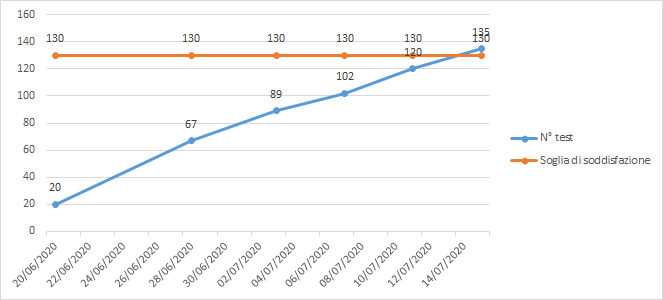
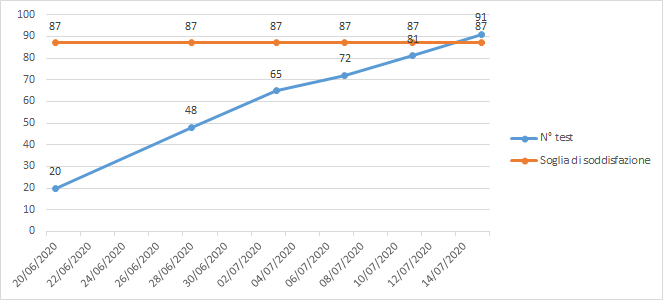
docs: modifica sezione 4

diff --git a/esterni/piano-di-qualifica/components/4-specifiche-dei-test.tex b/esterni/piano-di-qualifica/components/4-specifiche-dei-test.tex
@@ -94,50 +94,50 @@ Garantiscono che i requisiti richiesti identificati nel documento \textsc{Analis
   \multicolumn{4}{c}{\textit{Continua alla pagina successiva}}
   \endfoot%
   \endlastfoot%
-  \textbf{TSRFO1} & Si verifica che l'utente possa addestrare il sistema inserendo i dati tramite degli appositi pulsanti. & Obbligatorio & Non Implementato \\
+  \textbf{TSRFO1} & Si verifica che l'utente possa addestrare il sistema inserendo i dati tramite degli appositi pulsanti. & Obbligatorio & Implementato \\
 
-  \textbf{TSRFD1.1.1} & Si verifica che si venga notificati con un messaggio d’errore nel caso si carichino i dati di addestramento in un formato non valido. & Desiderabile & Non Implementato \\
+  \textbf{TSRFD1.1.1} & Si verifica che si venga notificati con un messaggio d’errore nel caso si carichino i dati di addestramento in un formato non valido. & Desiderabile & Implementato \\
 
-  \textbf{TSRFD1.2.1} & Si verifica che l’utente venga notificato con un messaggio d’errore nel caso si carichi un predittore in un formato non valido. & Desiderabile & Non Implementato \\
+  \textbf{TSRFD1.2.1} & Si verifica che l’utente venga notificato con un messaggio d’errore nel caso si carichi un predittore in un formato non valido. & Desiderabile & Implementato \\
   
-  \textbf{TSRFO1.3} & Si verifica che l'utente possa scegliere il modello di machine learning per l'addestramento. & Obbligatorio & Non Implementato \\
+  \textbf{TSRFO1.3} & Si verifica che l'utente possa scegliere il modello di machine learning per l'addestramento. & Obbligatorio & Implementato \\
 
-  \textbf{TSRFO1.4} & Si che verifica che l'utente possa avviare l'addestramento & Obbligatorio & Non Implementato \\
-  \textbf{TSRFO1.5} & Si verifica che l'utente abbia a disposizione un pulsante per il caricamento di un file \glossario{JSON} contenente il \glossario{predittore} allenato in precedenza. & Obbligatorio & Non Implementato \\
+  \textbf{TSRFO1.4} & Si che verifica che l'utente possa avviare l'addestramento & Obbligatorio & Implementato \\
+  \textbf{TSRFO1.5} & Si verifica che l'utente abbia a disposizione un pulsante per il caricamento di un file \glossario{JSON} contenente il \glossario{predittore} allenato in precedenza. & Obbligatorio & Implementato \\
   
   \textbf{TSRFF2} & Si verifica che l'utente possa addestrare il sistema direttamente da Grafana & Facoltativo & Non Implementato \\
   
   \textbf{TSRFF3} & Si verifica che l'utente possa avviare l'apprendimento del flusso di dati costante per mezzo di un pannello. & Facoltativo & Non Implementato \\
   \textbf{TSRFF4} & Si verifica che l'utente possa disattivare l'apprendimento del flusso di dati costante per mezzo di un pannello. & Facoltativo & Non Implementato \\
-  \textbf{TSRFO5} & Si verifica che l'utente possa configurare il plug-in. & Obbligatorio & Non Implementato \\
-  \textbf{TSRFO5.1} & Si verifica che l'utente abbia a disposizione un metodo per caricare il modello addestrato. & Obbligatorio & Non Implementato \\
+  \textbf{TSRFO5} & Si verifica che l'utente possa configurare il plug-in. & Obbligatorio & Implementato \\
+  \textbf{TSRFO5.1} & Si verifica che l'utente abbia a disposizione un metodo per caricare il modello addestrato. & Obbligatorio & Implementato \\
   \textbf{TSRFD5.1.1} & Si verifica che l'utente venga notificato con un messaggio d'errore nel caso in cui venga caricato un file contenente il modello addestrato non valido. & Desiderabile & Non Implementato \\
-  \textbf{TSRFD5.1.2} & Si verifica che l'utente venga notificato con un messaggio d'errore nel caso in cui non venga caricato nessun file. & Desiderabile & Non Implementato \\
-  \textbf{TSRFO5.2} & Si verifica che l'utente possa selezionare i nodi su cui desidera effettuare la predizione. & Obbligatorio & Non Implementato \\
-  \textbf{TSRFD5.2.1} & Si verifica che l'utente venga notificato con un messaggio d'errore nel caso in cui venga selezionato un nodo non valido. & Desiderabile & Non Implementato \\
-  \textbf{TSRFD5.2.2} & Si verifica che l'utente venga notificato con un messaggio d'errore nel caso in cui non venga selezionato alcun nodo. & Desiderabile & Non Implementato \\
-  \textbf{TSRFO5.3} & Si verifica che l'utente possa selezionare il tipo di visualizzazione della predizione. & Obbligatorio & Non Implementato \\
+  \textbf{TSRFD5.1.2} & Si verifica che l'utente venga notificato con un messaggio d'errore nel caso in cui non venga caricato nessun file. & Desiderabile & Implementato \\
+  \textbf{TSRFO5.2} & Si verifica che l'utente possa selezionare i nodi su cui desidera effettuare la predizione. & Obbligatorio & Implementato \\
+  \textbf{TSRFD5.2.1} & Si verifica che l'utente venga notificato con un messaggio d'errore nel caso in cui venga selezionato un nodo non valido. & Desiderabile & Implementato \\
+  \textbf{TSRFD5.2.2} & Si verifica che l'utente venga notificato con un messaggio d'errore nel caso in cui non venga selezionato alcun nodo. & Desiderabile & Implementato \\
+  \textbf{TSRFO5.3} & Si verifica che l'utente possa selezionare il tipo di visualizzazione della predizione. & Obbligatorio & Implementato \\
   \textbf{TSRFD5.3.1} & Si verifica che l'utente venga notificato con un messaggio d'errore nel caso in cui non venga selezionato alcun tipo di visualizzazione. & Desiderabile & Non Implementato \\
-  \textbf{TSRFO6} & Si verifica che l'utente abbia a disposizione la possibilità di visualizzare la previsione utilizzando un grafico. & Obbligatorio & Non Implementato \\
-  \textbf{TSRFO7} & Si verifica che l'utente abbia a disposizione la possibilità di visualizzare la previsione utilizzando un indicatore. & Obbligatorio & Non Implementato \\
-  \textbf{TSRFO8} & Si verifica che l'utente possa selezionare il modello SVM per l'allenamento. & Obbligatorio & Non Implementato \\
-  \textbf{TSRFO9} & Si verifica che l'utente possa selezionare il modello RL per l'allenamento. & Obbligatorio & Non Implementato \\
+  \textbf{TSRFO6} & Si verifica che l'utente abbia a disposizione la possibilità di visualizzare la previsione utilizzando un grafico. & Obbligatorio & Implementato \\
+  \textbf{TSRFO7} & Si verifica che l'utente abbia a disposizione la possibilità di visualizzare la previsione utilizzando un indicatore. & Obbligatorio & Implementato \\
+  \textbf{TSRFO8} & Si verifica che l'utente possa selezionare il modello SVM per l'allenamento. & Obbligatorio & Implementato \\
+  \textbf{TSRFO9} & Si verifica che l'utente possa selezionare il modello RL per l'allenamento. & Obbligatorio & Implementato \\
   \textbf{TSRFF10} & Si verifica che l'utente possa selezionare la regressione esponenziale per l'allenamento. & Facoltativo & Non Implementato \\
   \textbf{TSRFF11} & Si verifica che l'utente possa selezionare la regressione logaritmica per l'allenamento. & Facoltativo & Non Implementato \\
   \textbf{TSRFF12} & Si verifica che l'utente possa selezionare il modello rete neurale per l'allenamento. & Facoltativo & Non Implementato \\
   \textbf{TSRFF13} & Si verifica che l'utente possa selezionare il modello SVM adattata alla regressione per l'allenamento. & Facoltativo & Non Implementato \\
-  \textbf{TSRFO14} & Si verifica che l'utente abbia a disposizione un pulsante per l’avvio della predizione. & Obbligatorio & Non Implementato \\
-  \textbf{TSRFO15} & Si verifica che l'utente abbia a disposizione un pulsante per interrompere la predizione. & Obbligatorio & Non Implementato \\
+  \textbf{TSRFO14} & Si verifica che l'utente abbia a disposizione un pulsante per l’avvio della predizione. & Obbligatorio & Implementato \\
+  \textbf{TSRFO15} & Si verifica che l'utente abbia a disposizione un pulsante per interrompere la predizione. & Obbligatorio & Implementato \\
   \textbf{TSRFF16} & Si verifica che all'utente venga mostrato il pannello contenente le informazioni riguardanti la bontà della previsione. & Facoltativo & Non Implementato \\
   \textbf{TSRFF17} & Si verifica che all'utente venga mostrato il pannello contenente la bontà di previsione dell'algoritmo SVM descritta dal parametro F-Measure. & Facoltativo & Non Implementato \\
   \textbf{TSRFF18} & Si verifica che all'utente venga mostrato il pannello contenente la bontà di previsione dell'algoritmo RL descritta dal parametro R\textsuperscript{2}. & Facoltativo & Non Implementato \\
   \textbf{TSRFF19} & Si verifica che l'utente abbia a disposizione un metodo per l’impostazione degli alert. & Facoltativo & Non Implementato \\
   \textbf{TSRFF19.1} & Si verifica che all'utente venga mostrato un pulsante che permetta all'utente di creare un alert. & Facoltativo & Non Implementato \\
   \textbf{TSRFF19.2} & Si verifica che l'utente abbia a disposizione un sistema per inserire una soglia di alert. & Facoltativo & Non Implementato \\
-  \textbf{TSRFD19.2.1} & Si verifica che l'utente venga notificato un messaggio di errore nel caso in cui venga superata la soglia impostata utilizzando un allert. & Desiderabile & Non Implementato \\
-  \textbf{TSRFD20} & Si verifica che l'utente possa eliminare il pannello di monitoraggio. & Desiderabile & Non Implementato \\
+  \textbf{TSRFD19.2.1} & Si verifica che l'utente venga notificato un messaggio di errore nel caso in cui venga superata la soglia impostata utilizzando un alert. & Desiderabile & Non Implementato \\
+  \textbf{TSRFD20} & Si verifica che l'utente possa eliminare il pannello di monitoraggio. & Desiderabile & Implementato \\
   \textbf{TSRFD20.1} & Si verifica che l'utente visualizzi un messaggio di errore nel caso in cui si cerchi di eliminare il pannello senza interrompere la previsione. & Desiderabile & Non Implementato \\
-  \textbf{TSRFO21} & Si verifica che l'utente abbia a disposizione un metodo per la visualizzazione delle previsioni. & Obbligatorio & Non Implementato \\
+  \textbf{TSRFO21} & Si verifica che l'utente abbia a disposizione un metodo per la visualizzazione delle previsioni. & Obbligatorio & Implementato \\
 
 \end{longtable}
 
@@ -217,7 +217,7 @@ Garantiscono il corretto funzionamento di ogni minimo componente autonomo del si
   \textbf{TU26} & Viene verificato che la funzione getChartY() della View ritorni i dati dell'asse Y & Implementato \\
   \textbf{TU27} & Viene verificato che la funzione getChartTargetArray() della View ritorni i dati della variabile target presi dal grafico & Implementato \\
   \textbf{TU28} & Viene verificato che la funzione setChartData(x, y, target, xLabel, yLabel, model) della View inserisca correttamente i nuovi dati nel grafico & Implementato \\
-  \textbf{TU29} & Viene verificato che il costruttore dal Controller definisca correttamente i bind con la View & Non Implementato \\
+  \textbf{TU29} & Viene verificato che il costruttore dal Controller definisca correttamente i bind con la View & Implementato \\
   \textbf{TU30} & Viene verificato che la funzione handleFileChanged(path) del Controller venga attivata dopo l'esecuzione della funzione bindFileChange(handler) della View & Non Implementato \\
   \textbf{TU31} & Viene verificato che la funzione handleFormSubmit(keys, meta) del Controller venga attivata dopo l'esecuzione della funzione bindFormSubmit(handler) della View & Non Implementato \\
   \textbf{TU32} & Viene verificato che la funzione handleLoadPredictor(path) del Controller venga attivata dopo l'esecuzione della funzione bindLoadPredictor(handler) della View & Non Implementato \\
@@ -250,5 +250,12 @@ Garantiscono il corretto funzionamento di ogni minimo componente autonomo del si
   \textbf{TU59} & Viene verificato che il metodo del plug-in predict di PredictionRL ritorni i valori corretti & Implementato \\
   \textbf{TU60} & Viene verificato che il metodo del plug-in predict di PredictionSVM ritorni i valori corretti & Implementato \\
 \end{longtable}
+
+\begin{figure}[H]
+  \centering
+  \includegraphics[width=10cm]{img/testImplementati.png}
+  \label{fig:test_implementati}
+  \caption{Grafico con i test implementati}
+\end{figure}
 
 \end{document}

diff --git a/esterni/piano-di-qualifica/components/attivita/attivita-ra.tex b/esterni/piano-di-qualifica/components/attivita/attivita-ra.tex
@@ -161,8 +161,8 @@ A causa delle poche modifiche e cambiamenti significativi non sono stati inserit
 
 \paragraph{Manuale Utente}
 \label{sub:glossario}
-Il \textsc{Manuale Utente v1.9-0.4.0} è stato redatto in questa fase di sviluppo e ha riportato moderati errori errori durante le sua verifiche che sono stati sanati.
-Il suo indice di Gulpease in questa fase di sviluppo è 73.
+Il \textsc{Manuale Utente v3.11-1.0.0} ha ricevuto modifiche e ampliamenti in quasi tutte le sue sezioni ma non così significative da richiedere molte fasi di verifica e approvazione.
+Il suo indice di Gulpease in questa fase di sviluppo è salito a 74.
 
 \rowcolors{2}{white!80!lightgray!90}{white}
 \renewcommand{\arraystretch}{2} % allarga le righe con dello spazio sotto e sopra
@@ -173,29 +173,17 @@ Il suo indice di Gulpease in questa fase di sviluppo è 73.
   \rowcolor{lightgray}
   {\textbf{Documento}} & {\textbf{Risultato indice}} & {\textbf{Errori presenti}} & {\textbf{Esito indice}} & {\textbf{Esito errori}}  \\
   \endhead%
-  \textbf{Manuale Utente v1.9-0.4.0} & 73               & 0               & Soddisfatto & Soddisfatto \\
-  \caption{Risultati metriche per il Manuale Utente v1.9-0.4.0}
+  \textbf{Manuale Utente v3.11-1.0.0} & 74               & 0               & Soddisfatto & Soddisfatto \\
+  \caption{Risultati metriche per il Manuale Utente v3.11-1.0.0}
   \label{tab:my-table}
 \end{longtable}
 
-\begin{figure}[H]
-  \centering
-  \includegraphics[width=10cm]{img/erroriMUv1.9-0.4.0.png}
-  \label{fig:errori_adr}
-  \caption{Grafico errori per \textsc{Manuale Utente v1.9-0.4.0}}
-\end{figure}
-
-\begin{figure}[H]
-  \centering
-  \includegraphics[width=10cm]{img/gulpeaseMUv1.9-0.4.0.png}
-  \label{fig:gulpease_adr}
-  \caption{Grafico indice di Gulpease per \textsc{Manuale Utente v1.9-0.4.0}}
-\end{figure}
+A causa delle poche fasi di verifica richieste non sono stati inseriti i grafici che non comunicavano alcuna informazione aggiuntiva.
 
 \paragraph{Manuale Sviluppatore}
 \label{sub:glossario}
-Il \textsc{Manuale Sviluppatore v1.9-1.0.0}, come per il \textsc{Manuale Utente v1.9-0.4.0}, è stato redatto in questa fase e ha avuto una curva di errori più altalenante che sono stati comunque sanati.
-Il suo indice di Gulpease in questa fase di sviluppo è 71.
+Il \textsc{Manuale Sviluppatore v3.11-2.0.0} ha ricevuto modifiche principalmente ai diagrammi UML sia della training app che del plug-in, oltre ad altre modifiche relative alla parte relativa al plug-in.
+Il suo indice di Gulpease in questa fase di sviluppo è rimasto invariato a 71.
 
 \rowcolors{2}{white!80!lightgray!90}{white}
 \renewcommand{\arraystretch}{2} % allarga le righe con dello spazio sotto e sopra
@@ -206,24 +194,12 @@ Il suo indice di Gulpease in questa fase di sviluppo è 71.
   \rowcolor{lightgray}
   {\textbf{Documento}} & {\textbf{Risultato indice}} & {\textbf{Errori presenti}} & {\textbf{Esito indice}} & {\textbf{Esito errori}}  \\
   \endhead%
-  \textbf{Manuale Sviluppatore v1.9-1.0.0} & 71               & 0               & Soddisfatto & Soddisfatto \\
-  \caption{Risultati metriche per il Manuale Sviluppatore v1.9-1.0.0}
+  \textbf{Manuale Sviluppatore v3.11-2.0.0} & 71               & 0               & Soddisfatto & Soddisfatto \\
+  \caption{Risultati metriche per il Manuale Sviluppatore v3.11-2.0.0}
   \label{tab:my-table}
 \end{longtable}
 
-\begin{figure}[H]
-  \centering
-  \includegraphics[width=10cm]{img/erroriMSv1.9-1.0.0.png}
-  \label{fig:errori_adr}
-  \caption{Grafico errori per \textsc{Manuale Sviluppatore v1.9-1.0.0}}
-\end{figure}
-
-\begin{figure}[H]
-  \centering
-  \includegraphics[width=10cm]{img/gulpeaseMSv1.9-1.0.0.png}
-  \label{fig:gulpease_adr}
-  \caption{Grafico indice di Gulpease per \textsc{Manuale Sviluppatore v1.9-1.0.0}}
-\end{figure}
+A causa delle poche fasi di verifica richieste non sono stati inseriti i grafici che non comunicavano alcuna informazione aggiuntiva.
 
 \subsubsection{Esiti verifiche sui processi}
 \label{sub:esiti_verifiche_sui_processi}
@@ -383,11 +359,11 @@ Come per i documenti, anche per queste metriche verrà fornito un esito che può
   \rowcolor{lightgray}
   {\textbf{Obiettivo}} & {\textbf{Metrica}} & {\textbf{Risultato}} & {\textbf{Esito}}  \\
   \endhead%
-  \textbf{QoPR010 Rispetto nella redazione dei documenti} & MoPR011 Analisi documenti & 3 & Soddisfatto \\
+  \textbf{QoPR010 Rispetto nella redazione dei documenti} & MoPR011 Analisi documenti & 2 & Soddisfatto \\
   \caption{Risultati metrica MoPR011}
   \label{tab:my-table}
 \end{longtable}
-\textbf{Nota}: Anche se nei documenti sono state apportate poche modifiche mediamente ogni documento è stato revisionato e approvato 3 volte.
+\textbf{Nota}: Anche se nei documenti sono state apportate poche modifiche mediamente ogni documento è stato revisionato e approvato 2 volte che rimane un valore accettabile per quest'ultima parte di sviluppo.
 
 \paragraph{Processo PRC004}
 \label{sub:processo_PRC004}
